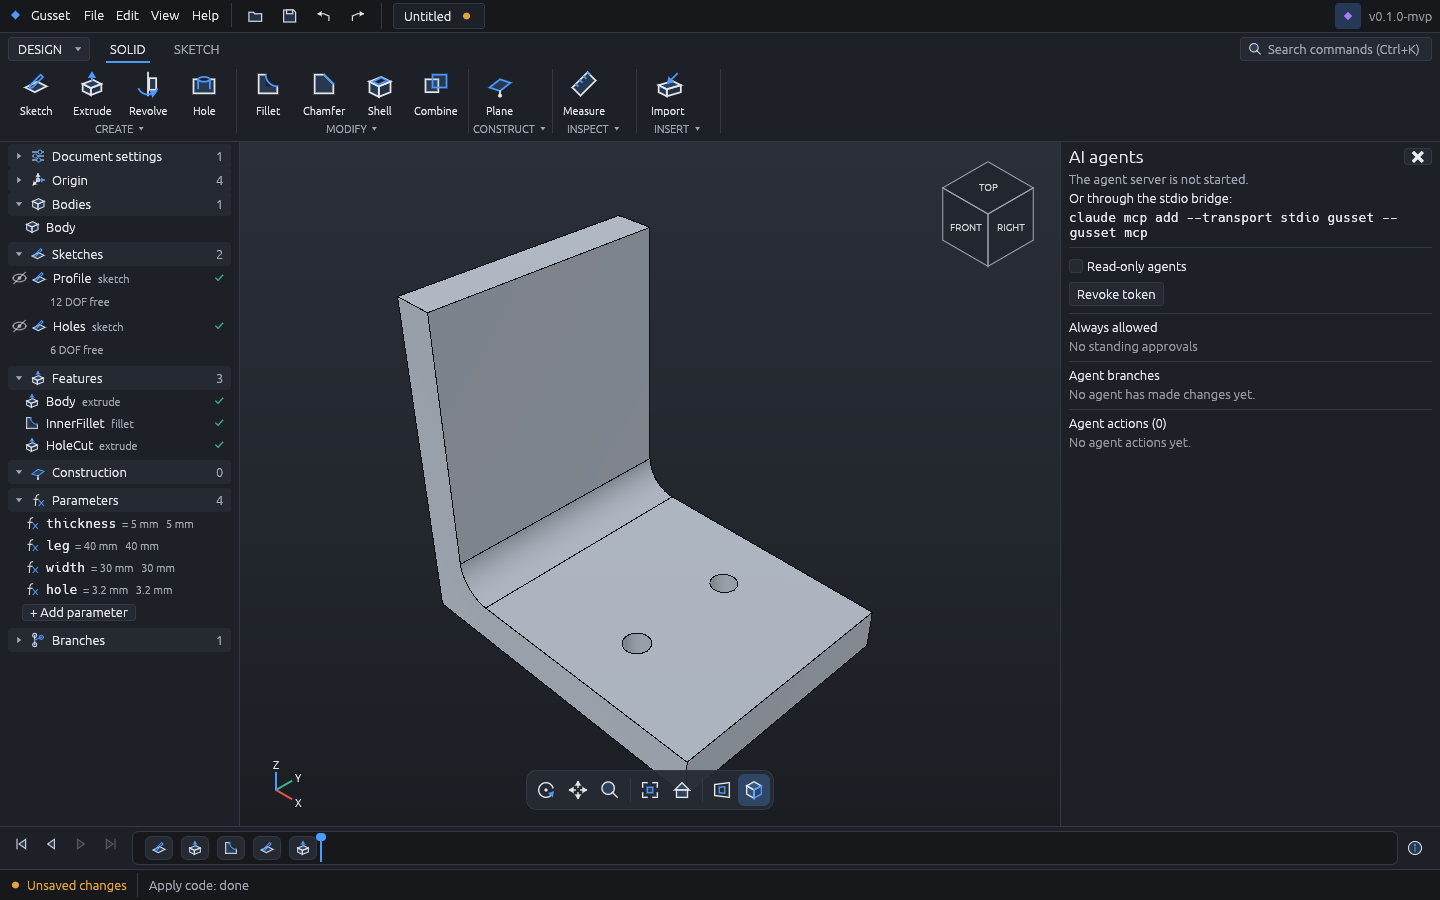
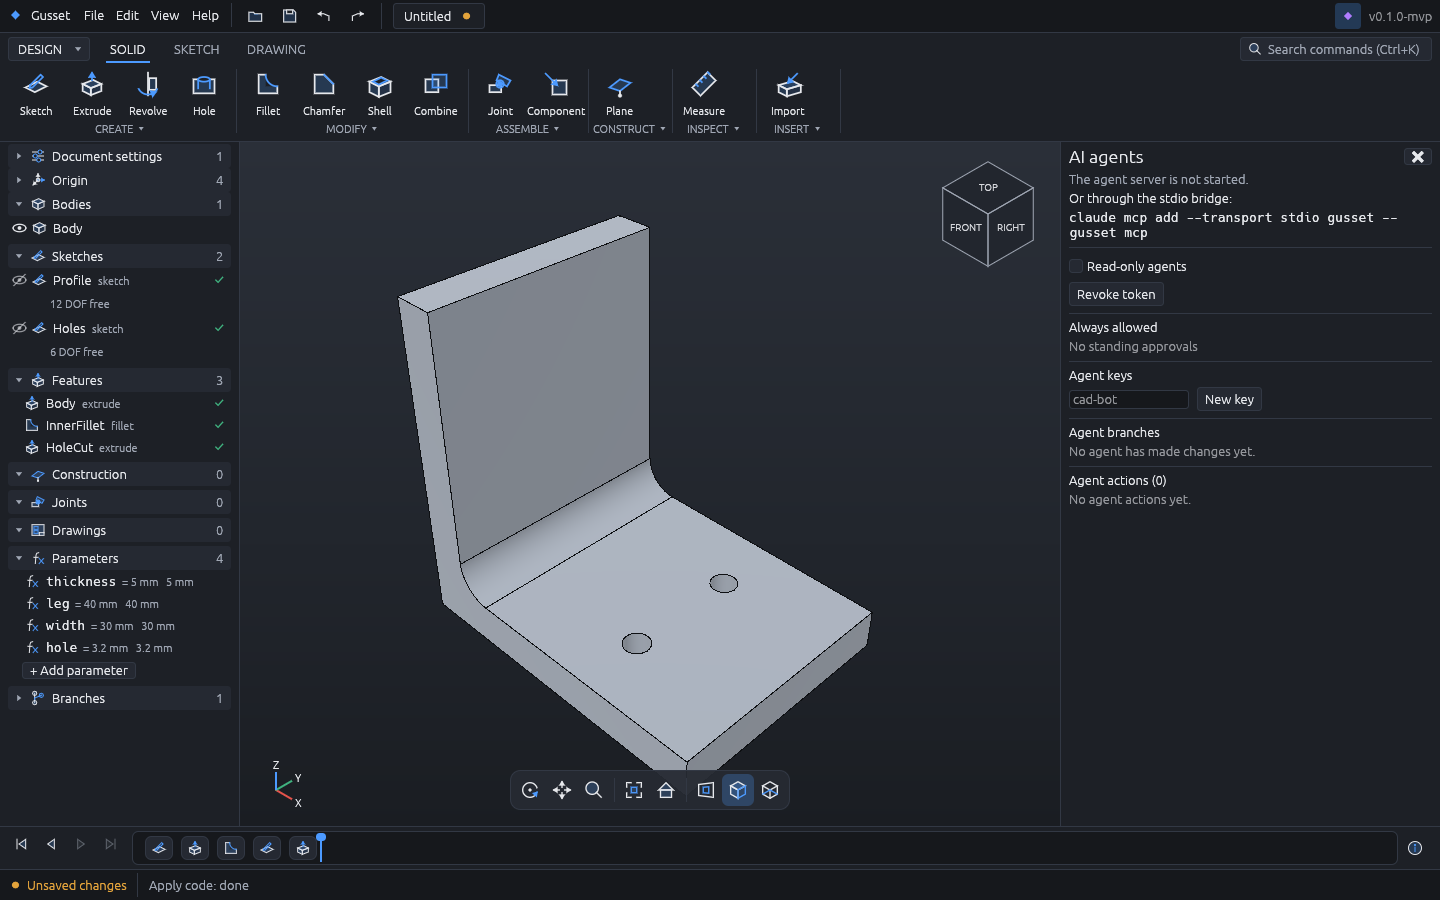
fix(app): the form's OK button stays under the fields; regenerate the screenshots
In the tall properties panel the right-to-left layout took the remaining height and
centred OK halfway down; it is now one row high. The gallery is rendered with the real
kernel (bracket model) and gains the drawing tab.

Claude-Session: https://claude.ai/code/session_01DSjXuzSVUbVM2N9dfBB73Z

diff --git a/crates/gusset-app/src/forms.rs b/crates/gusset-app/src/forms.rs
@@ -203,7 +203,9 @@ pub fn show(ui: &mut egui::Ui, form: &mut Form) -> bool {
     }
     ui.add_space(crate::theme::SPACE[2]);
     // The primary action, on the right in the accent color.
-    ui.with_layout(egui::Layout::right_to_left(egui::Align::Center), |ui| {
+    // One row high: in the tall properties panel a plain layout would centre it vertically.
+    let row = egui::vec2(ui.available_width(), ui.spacing().interact_size.y);
+    ui.allocate_ui_with_layout(row, egui::Layout::right_to_left(egui::Align::Center), |ui| {
         if crate::theme::primary_button(ui, tr("dialog.ok"), 72.0).clicked() {
             submit = true;
         }

diff --git a/docs/PROGRESS.md b/docs/PROGRESS.md
@@ -52,9 +52,9 @@ Phase 3 has started (see Next).
   hidden across rebuilds); origin and datum planes are still read-only (no scene objects). Properties panel done (the running command's form docks at the right
   instead of floating; Close button). Still to do: the SURFACE/INSPECT tabs, and the SELECT group. Wireframe view style done (the navigation bar's
   Wireframe button: `ViewOptions::faces` off draws edges only, hidden ones too, on the GPU
-  and the software renderer). The
-  screenshot gallery in docs/screenshots was not regenerated (it needs the real kernel
-  for the bracket model); phase 2 looks were checked with mock-kernel renders.
+  and the software renderer).  The
+  screenshot gallery in docs/screenshots was regenerated with the real kernel on
+  2026-11-02 (properties panel, body eyes, wireframe button, drawing tab).
 
 ## Done for v0.2 after its reviews (2026-10-13)
 - Code and security review findings H1-H3, M1-M5, L1-L11, V1-V8 fixed.
